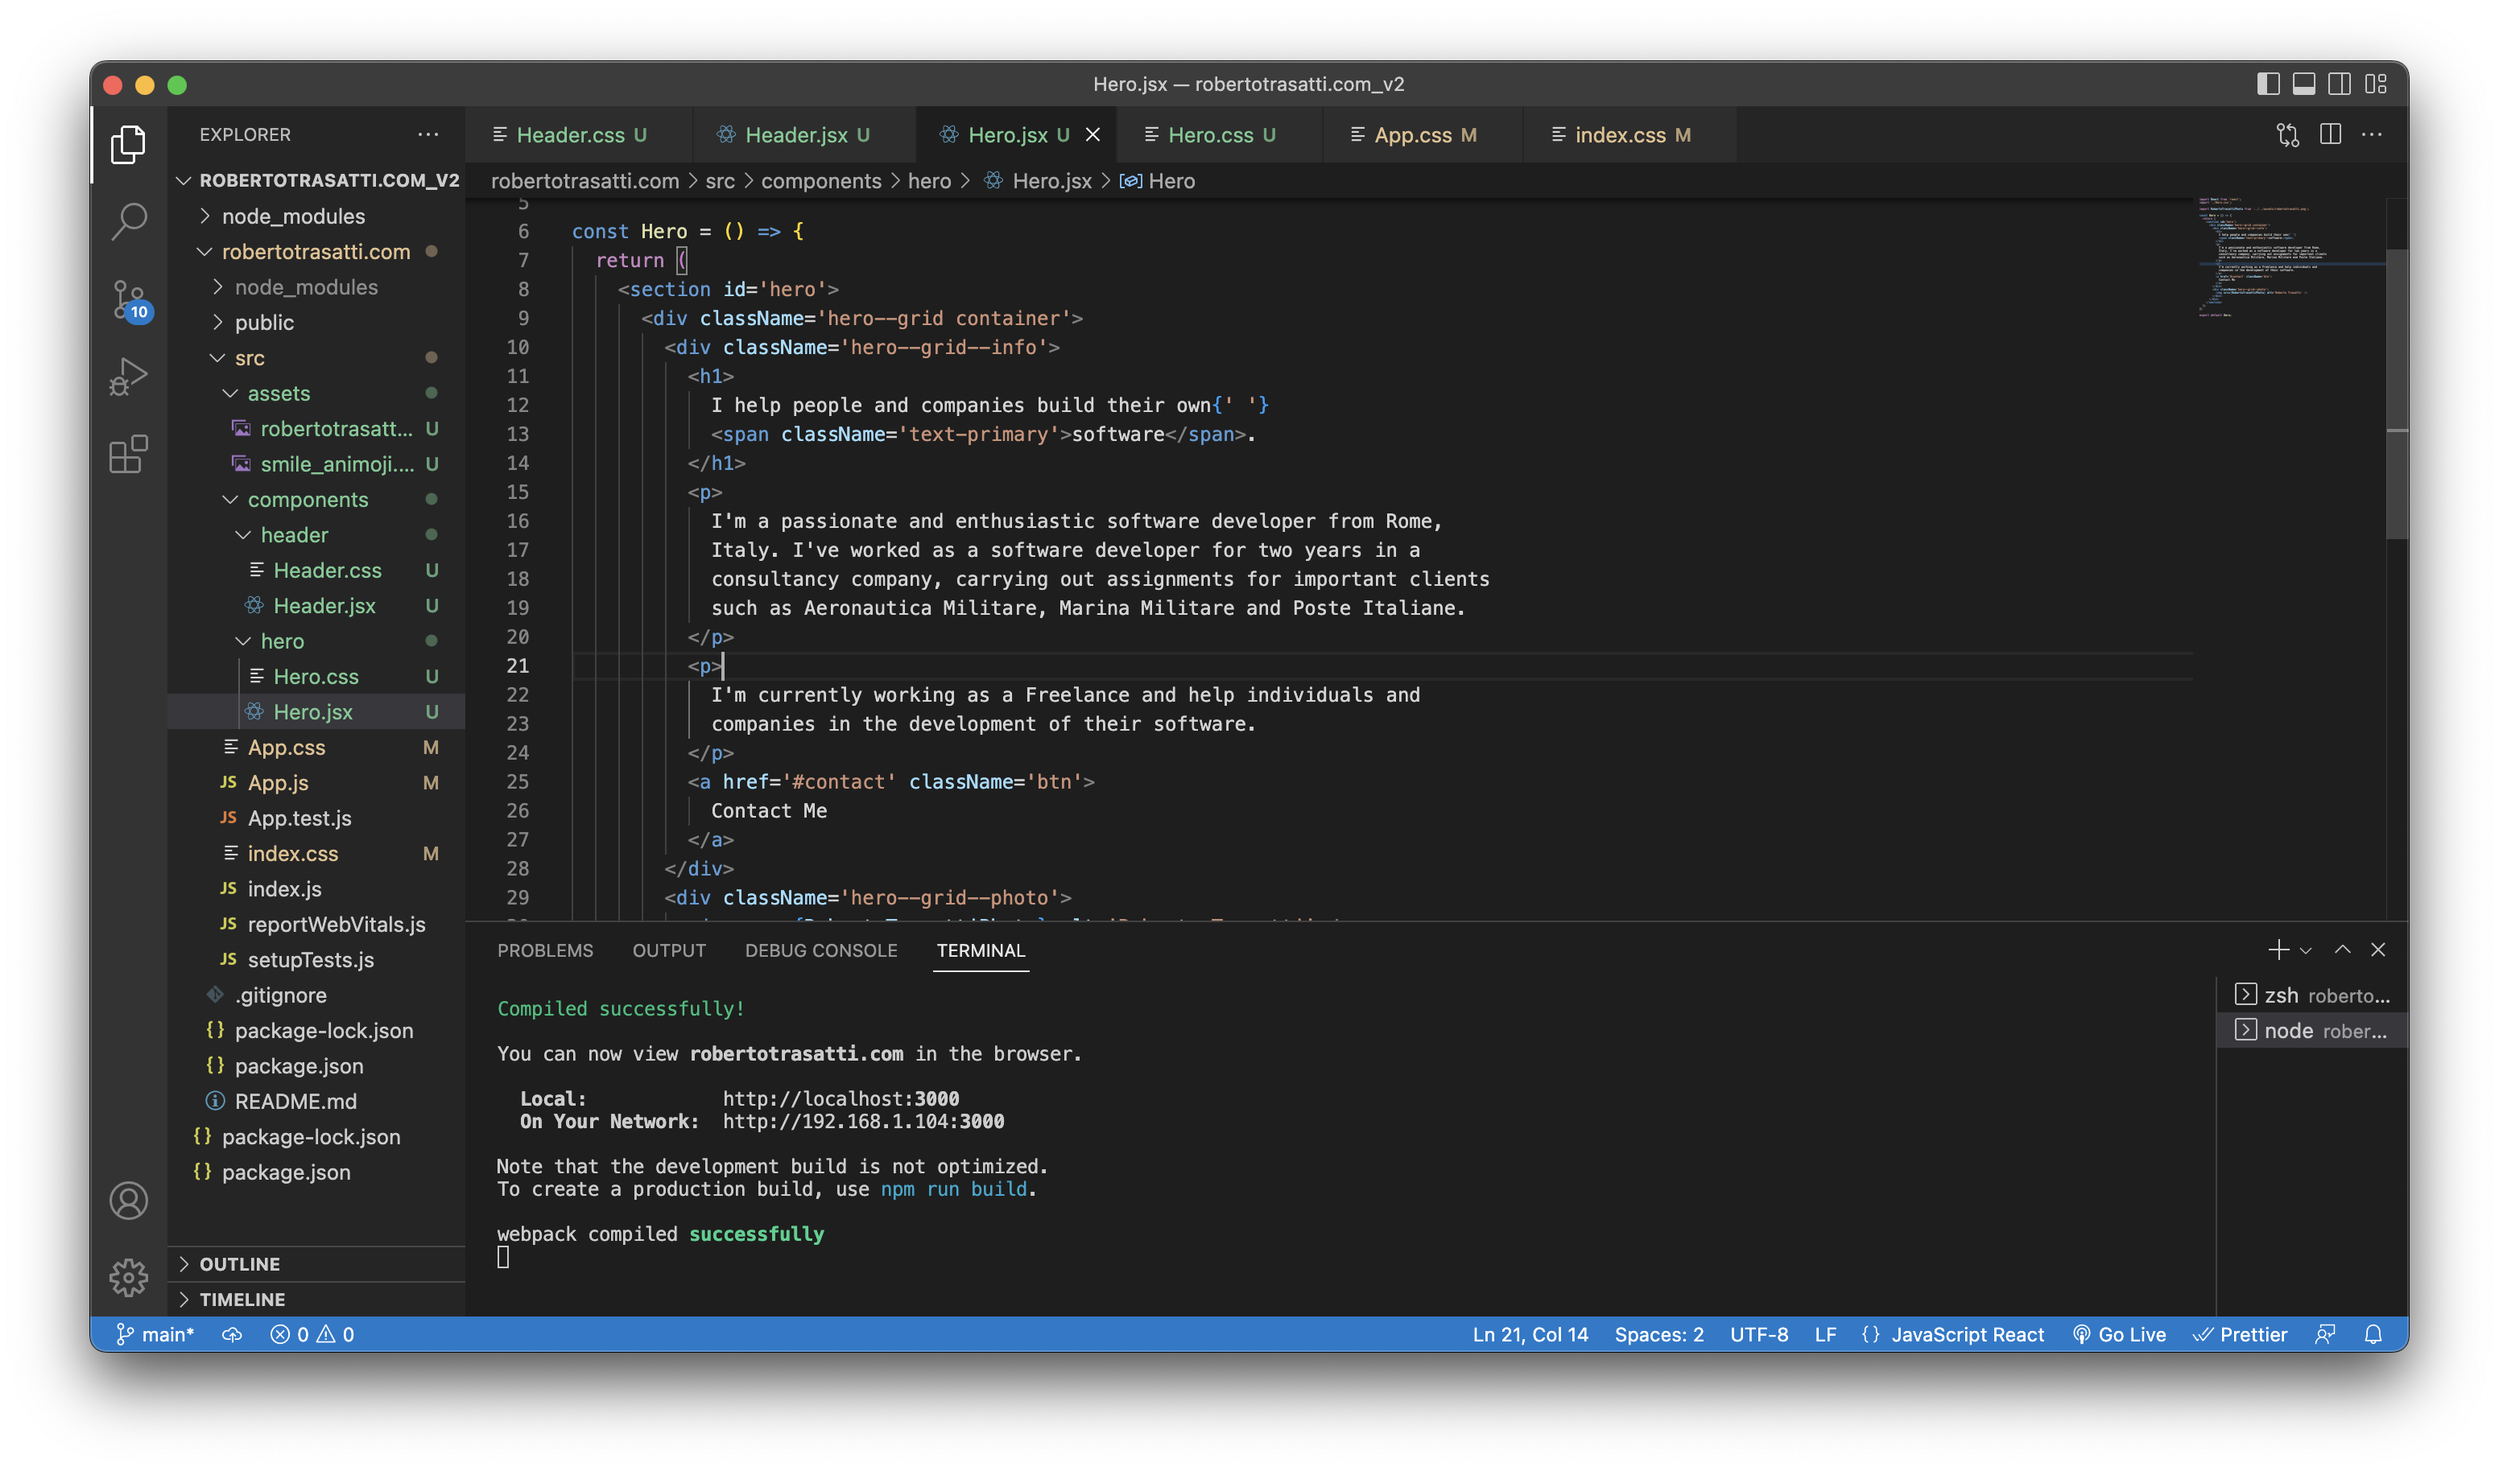
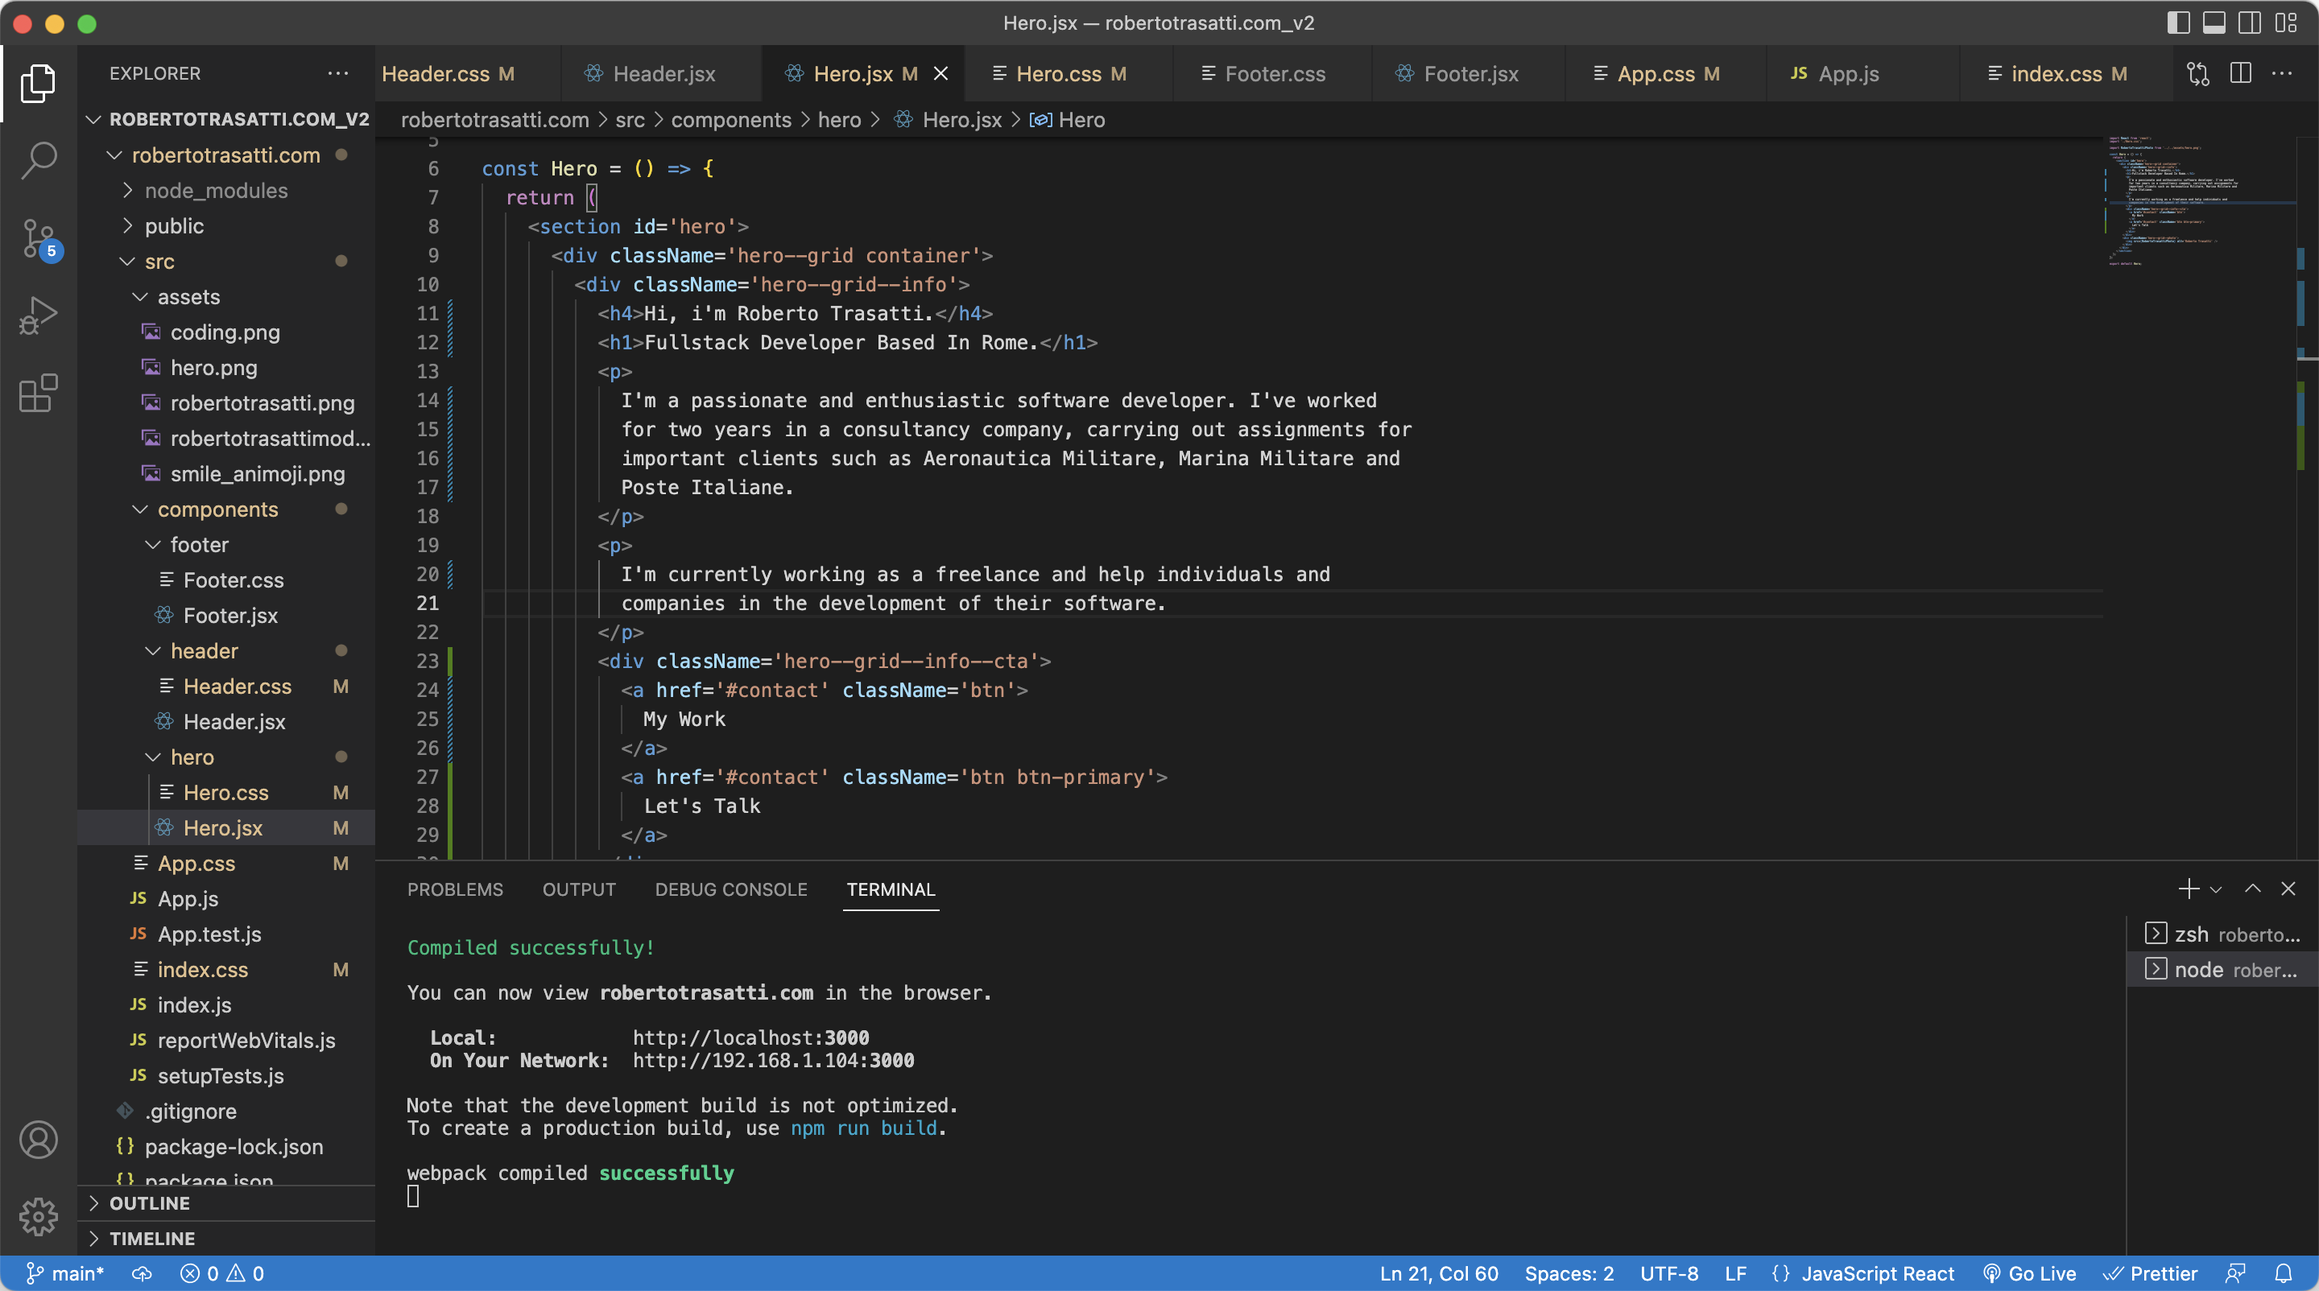
Improve layout and color

Changed region(s): [[0.0, 0.0, 1.0, 1.0], [0.5312, 0.0935, 0.5938, 0.1247]]

diff --git a/src/components/hero/Hero.jsx b/src/components/hero/Hero.jsx
@@ -8,23 +8,26 @@ const Hero = () => {
     <section id='hero'>
       <div className='hero--grid container'>
         <div className='hero--grid--info'>
-          <h1>
-            I help people and companies build their own{' '}
-            <span className='text-primary'>software</span>.
-          </h1>
+          <h4>Hi, i'm Roberto Trasatti.</h4>
+          <h1>Fullstack Developer Based In Rome.</h1>
           <p>
-            I'm a passionate and enthusiastic software developer from Rome,
-            Italy. I've worked as a software developer for two years in a
-            consultancy company, carrying out assignments for important clients
-            such as Aeronautica Militare, Marina Militare and Poste Italiane.
+            I'm a passionate and enthusiastic software developer. I've worked
+            for two years in a consultancy company, carrying out assignments for
+            important clients such as Aeronautica Militare, Marina Militare and
+            Poste Italiane.
           </p>
           <p>
-            I'm currently working as a Freelance and help individuals and
+            I'm currently working as a freelance and help individuals and
             companies in the development of their software.
           </p>
-          <a href='#contact' className='btn'>
-            Contact Me
-          </a>
+          <div className='hero--grid--info--cta'>
+            <a href='#contact' className='btn'>
+              My Work
+            </a>
+            <a href='#contact' className='btn btn-primary'>
+              Let's Talk
+            </a>
+          </div>
         </div>
         <div className='hero--grid--photo'>
           <img src={RobertoTrasattiPhoto} alt='Roberto Trasatti' />

diff --git a/src/index.css b/src/index.css
@@ -1,3 +1,5 @@
+@import url('https://fonts.googleapis.com/css2?family=Kanit:ital,wght@0,200;0,400;0,700;1,200;1,400;1,700&display=swap');
+
 * {
   margin: 0;
   padding: 0;
@@ -9,11 +11,14 @@
 }
 
 :root {
-  --color-bg: lightgrey;
-  --color-bg-variant: grey;
-  --color-links: black;
-  --color-primary: orange;
-  --color-secondary: whitesmoke;
+  --color-header: #fffcf2;
+  --color-bg: #ccc5b9;
+  --color-bg-variant: #403d39;
+
+  --color-primary: #eb5e28;
+  --color-primary-variant: rgb(235, 94, 40, 0.8);
+  --color-dark: #252422;
+  --color-light: #ffffff;
 
   --transition: all 400ms ease;
 
@@ -24,9 +29,7 @@
 
 body {
   background-color: var(--color-bg);
-  font-family: -apple-system, BlinkMacSystemFont, 'Segoe UI', 'Roboto', 'Oxygen',
-    'Ubuntu', 'Cantarell', 'Fira Sans', 'Droid Sans', 'Helvetica Neue',
-    sans-serif;
+  font-family: 'Kanit', sans-serif;
   -webkit-font-smoothing: antialiased;
   -moz-osx-font-smoothing: grayscale;
 }

diff --git a/src/App.css b/src/App.css
@@ -1,6 +1,6 @@
 /* GENERAL STYLES */
 a {
-  color: var(--color-links);
+  color: var(--color-dark);
   padding: 1rem 1.2rem;
 }
 
@@ -14,12 +14,12 @@ h2,
 h3,
 h4,
 h5 {
-  font-weight: 500;
+  font-weight: bold;
   /* TODO */
 }
 
 h1 {
-  font-size: 2.5rem;
+  font-size: 3.5rem;
 }
 
 img {
@@ -36,16 +36,22 @@ section {
 
 .btn {
   cursor: pointer;
-  color: var(--color-links);
-  font-size: 1.5rem;
-  font-weight: bold;
-  padding: 1rem 1.2rem;
-  border-radius: 0.5rem;
-  background-color: var(--color-primary);
+  color: var(--color-primary);
+  font-size: 1.2rem;
+  padding: 0.8rem 2rem;
+  border-radius: 0.3rem;
+  background-color: var(--color-bg);
+  border: 1px solid var(--color-primary);
 }
 
 .btn:hover {
-  color: var(--color-secondary);
+  color: var(--color-light);
+  background-color: var(--color-primary-variant);
+}
+
+.btn-primary {
+  color: var(--color-light);
+  background-color: var(--color-primary);
 }
 
 .container {

diff --git a/src/components/header/Header.css b/src/components/header/Header.css
@@ -1,5 +1,5 @@
 .header {
-  background-color: white;
+  background-color: var(--color-header);
 
   display: grid;
   grid-template-columns: 1fr 1fr 1fr;
@@ -17,7 +17,7 @@
 }
 
 .header--name a:hover {
-  color: var(--color-links);
+  color: var(--color-dark);
   transition: none;
 }
 
@@ -97,5 +97,8 @@
 
   .header--links--mobile li {
     padding: 1rem 1.2rem;
+    width: 80%;
+    text-align: center;
+    border-bottom: 1px solid var(--color-primary);
   }
 }

diff --git a/src/components/hero/Hero.css b/src/components/hero/Hero.css
@@ -16,6 +16,15 @@
   margin-bottom: 2rem;
 }
 
+.hero--grid--info--cta {
+  display: flex;
+  justify-content: flex-start;
+}
+
+.hero--grid--info--cta a {
+  margin-right: 1rem;
+}
+
 .hero--grid--photo {
   display: flex;
   flex-direction: column;

diff --git a/src/components/footer/Footer.css b/src/components/footer/Footer.css
@@ -1,5 +1,5 @@
 .footer {
-  background-color: var(--color-primary);
+  background-color: var(--color-primary-variant);
 }
 
 .footer--grid {
